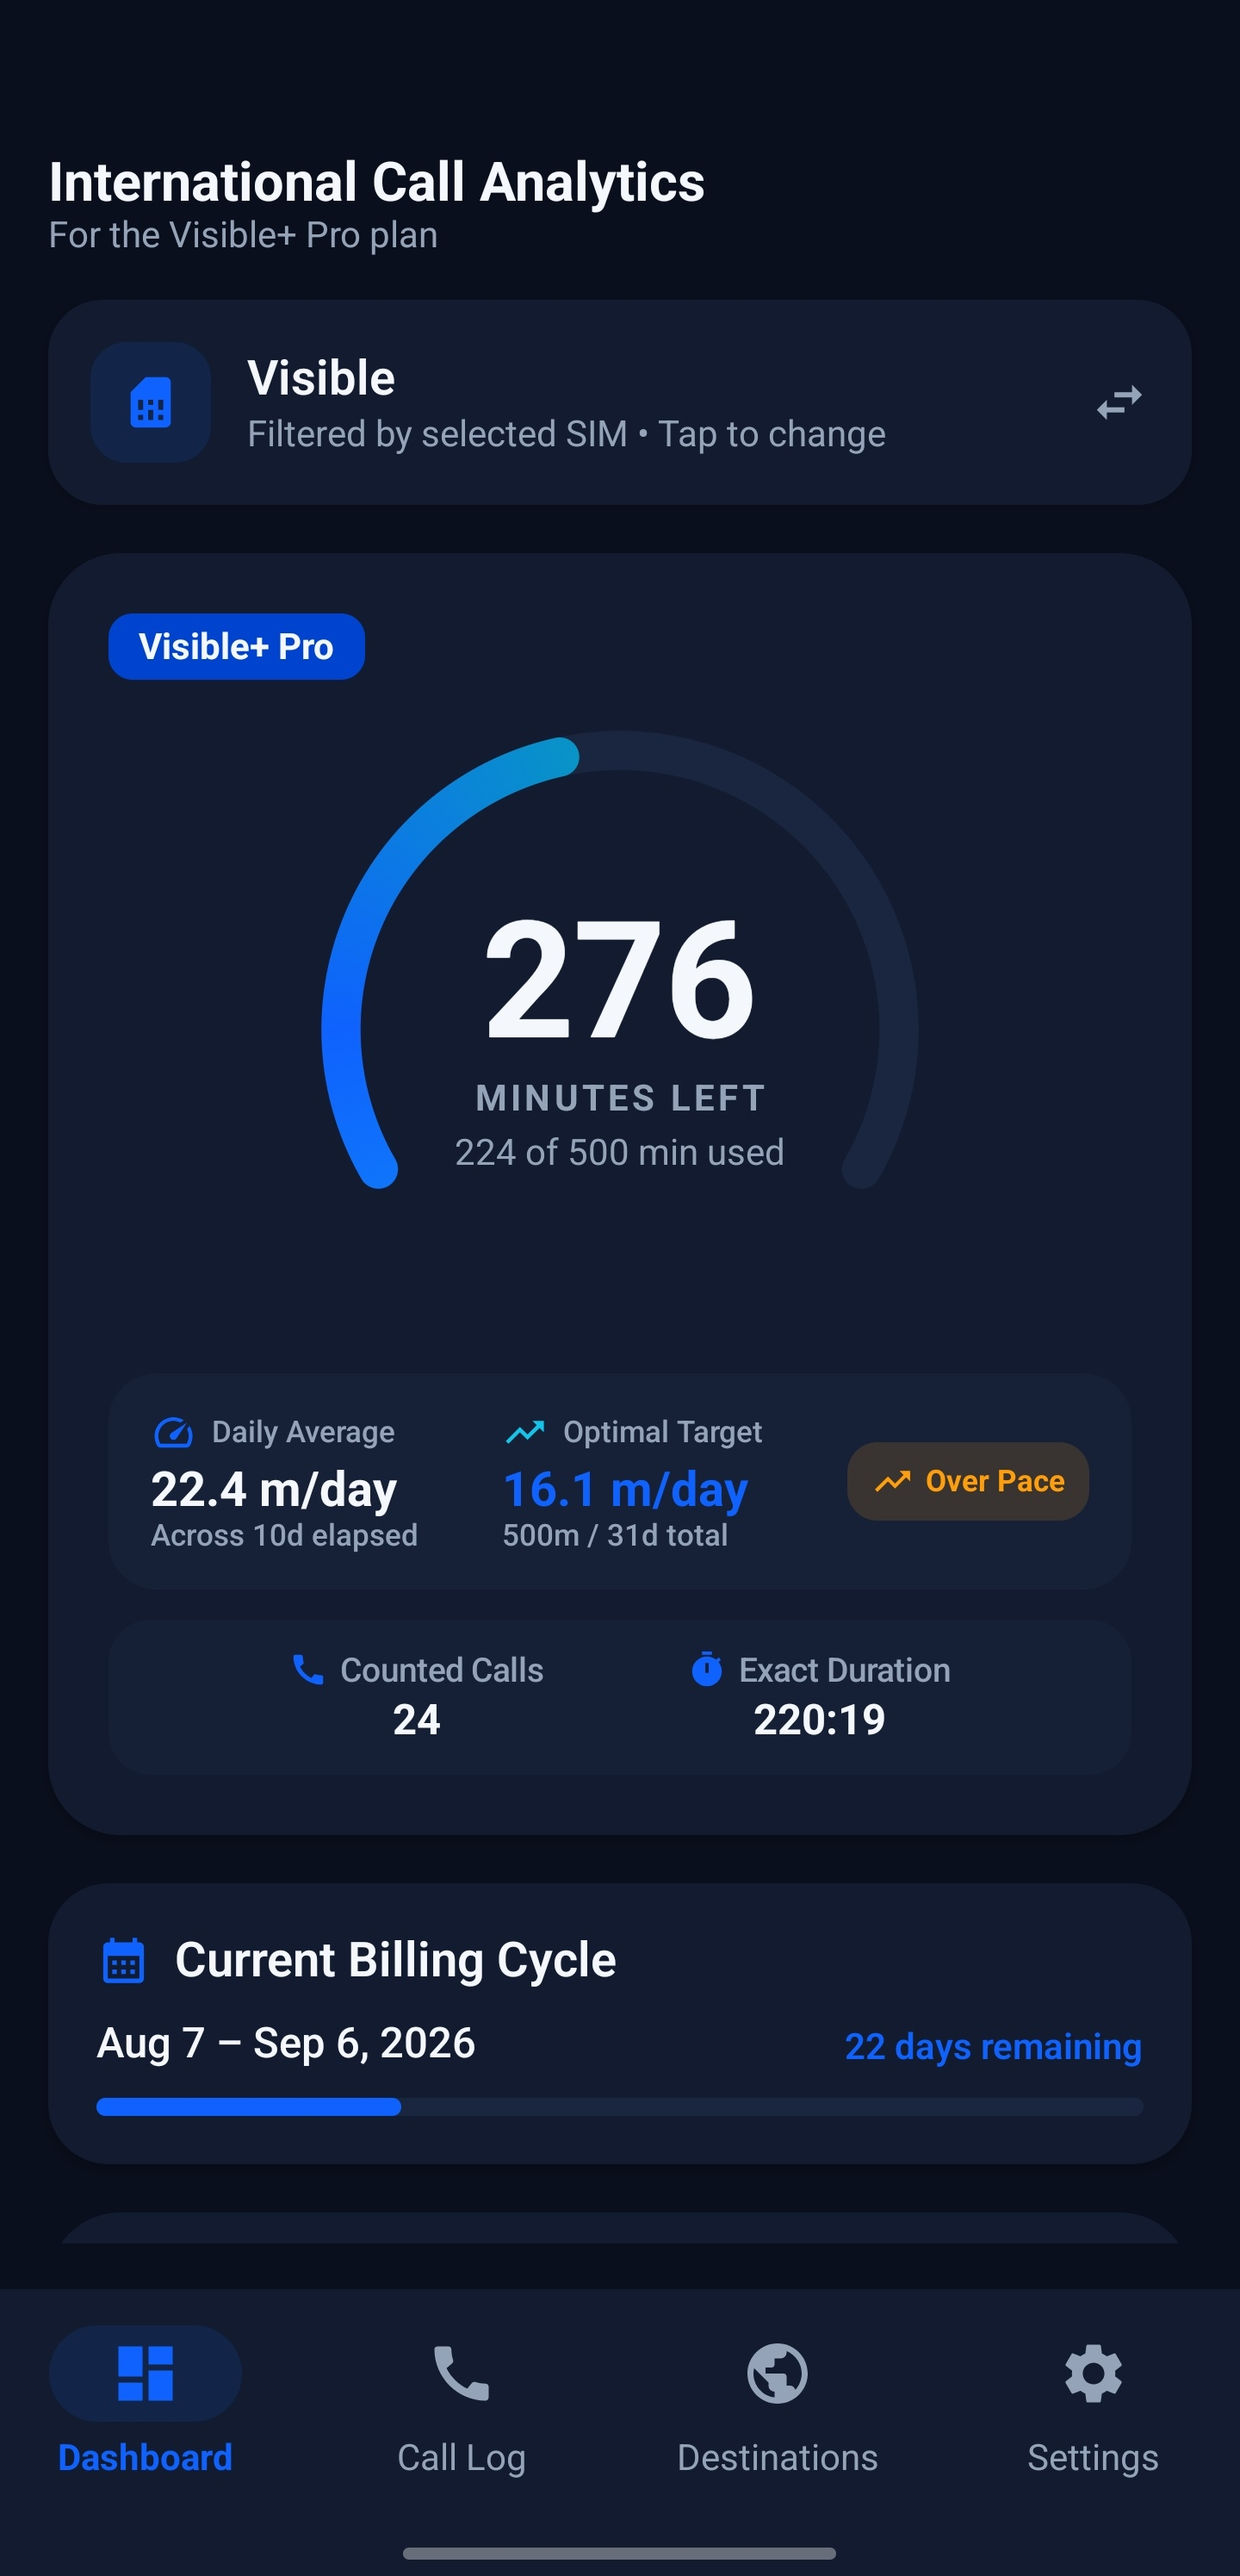
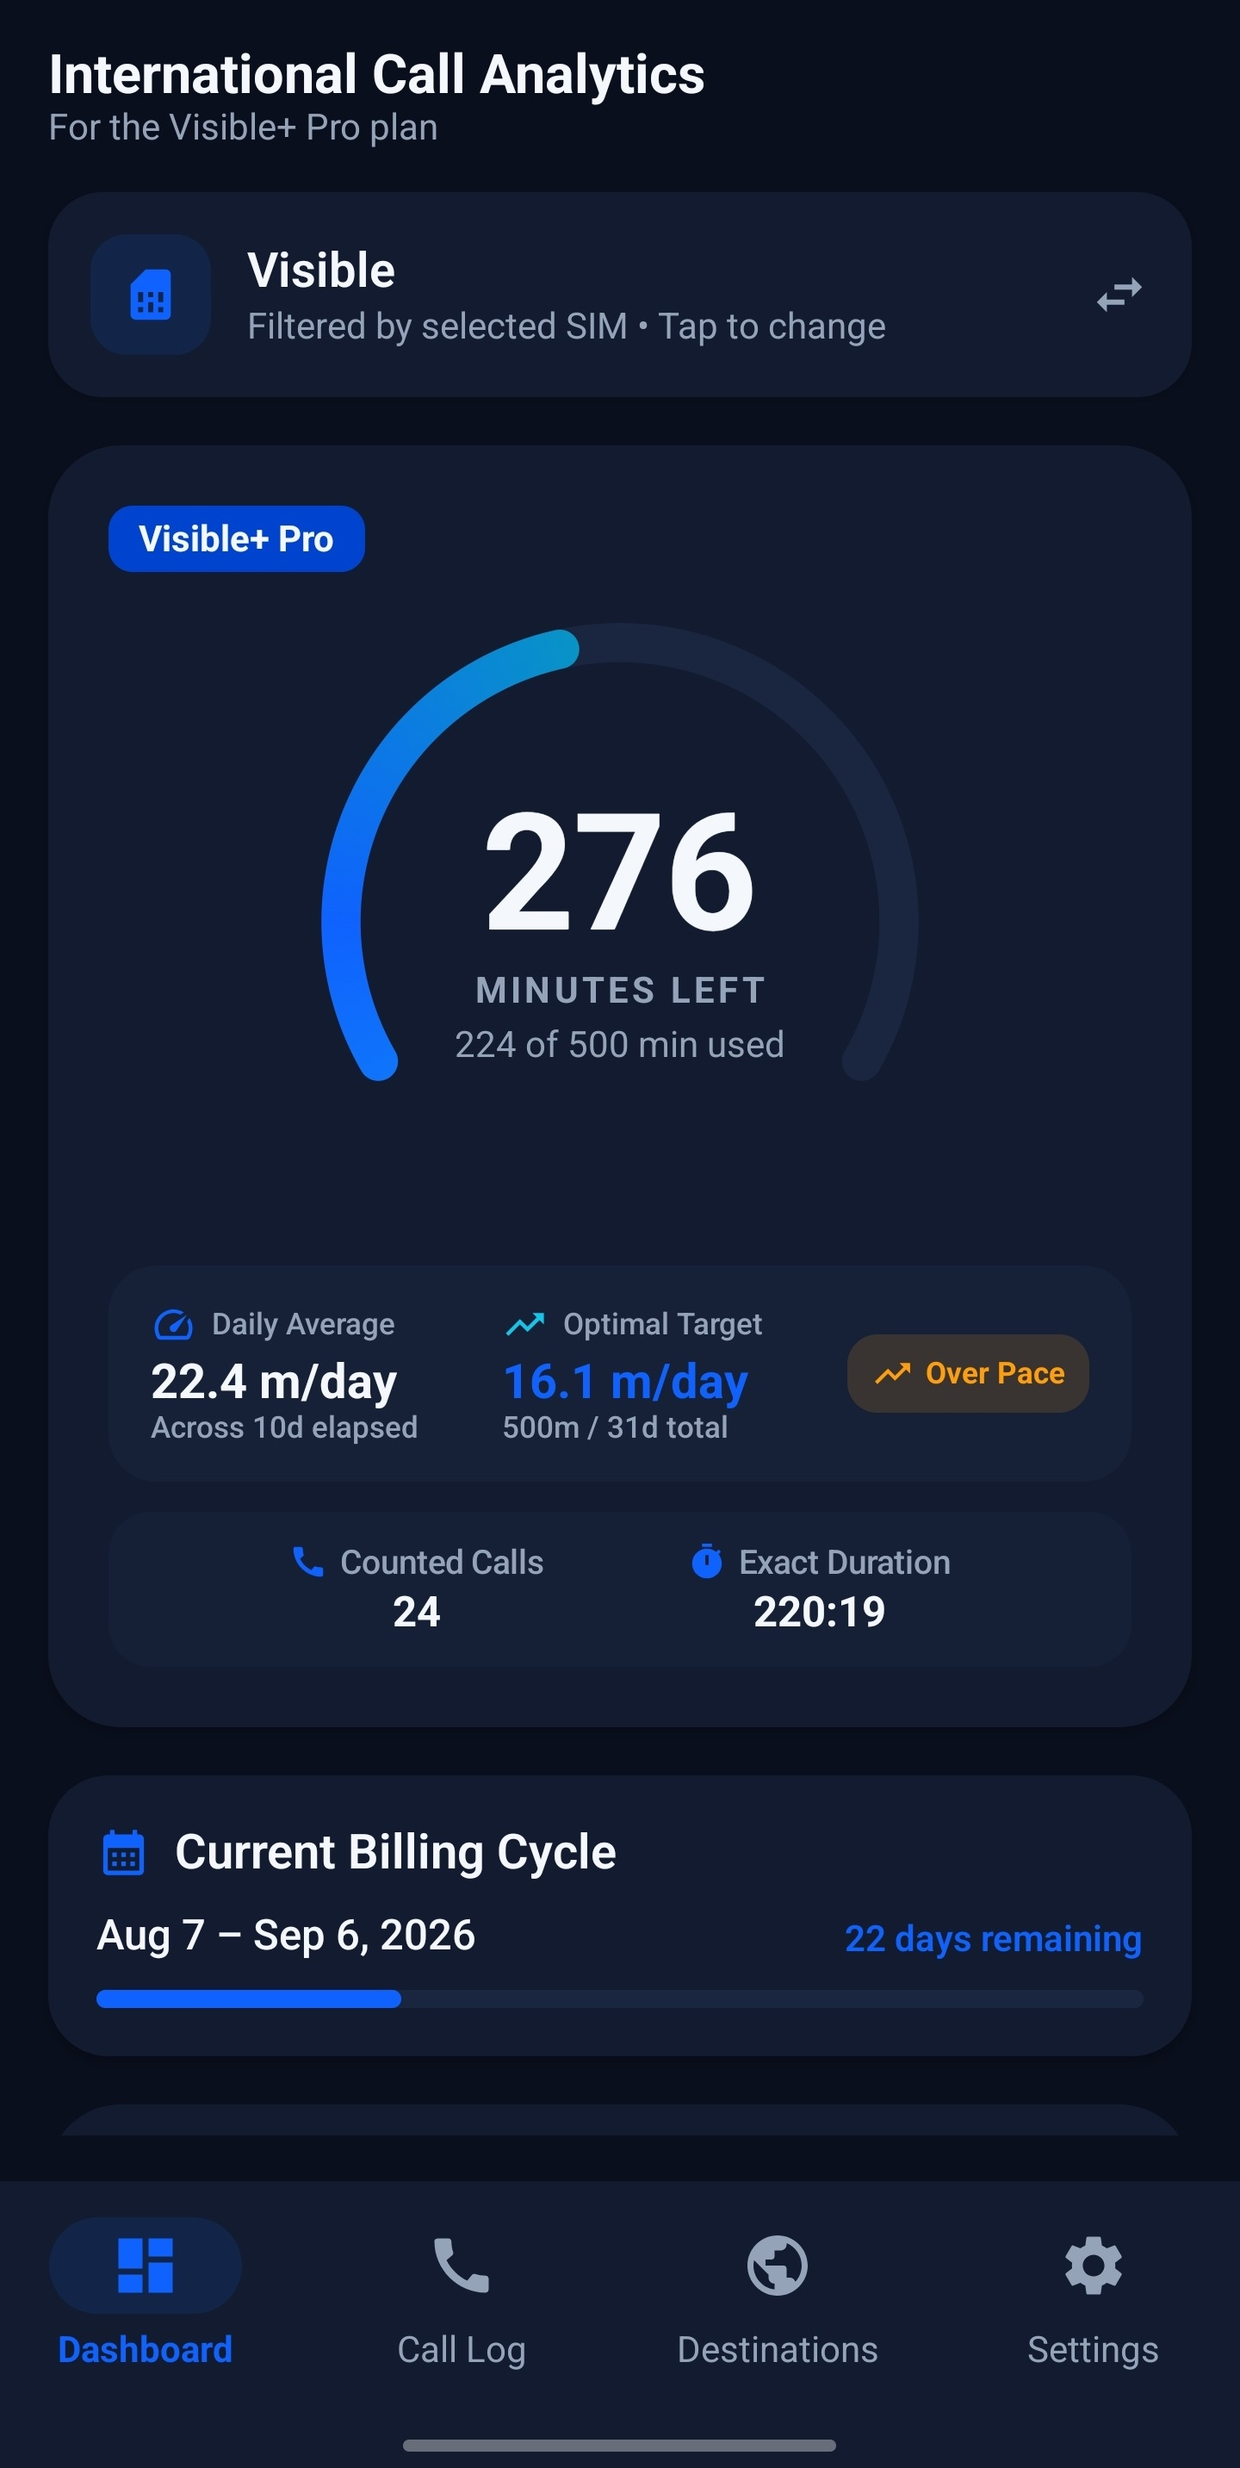
Update trimmed screenshots with cache-busting query in README

diff --git a/README.md b/README.md
@@ -29,9 +29,9 @@ Visible carrier limits international calling to 500 minutes per billing cycle ac
 ## 📸 Screenshots
 
 <p align="center">
-  <img src="docs/screenshots/dashboard_top.jpg" height="460" alt="Dashboard Overview & Quota Meter" />
+  <img src="docs/screenshots/dashboard_top.jpg?v=2" height="460" alt="Dashboard Overview & Quota Meter" />
   &nbsp;&nbsp;&nbsp;&nbsp;
-  <img src="docs/screenshots/histogram_analytics.jpg" height="460" alt="Billing Cycle Histogram & Pace Analysis" />
+  <img src="docs/screenshots/histogram_analytics.jpg?v=2" height="460" alt="Billing Cycle Histogram & Pace Analysis" />
 </p>
 
 ---
